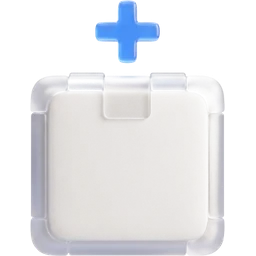
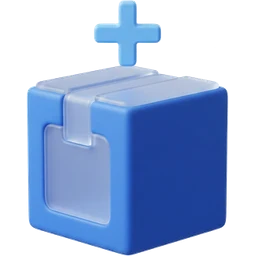
Painéis com vida: ações rápidas completas com ícones 3D (novo produto em azul, sacolinha no novo pedido) (D329)
Claude-Session: https://claude.ai/code/session_01Lks3ZRu8b1B5aF8Dj5vDVJ

diff --git a/src/components/commerce/commerce-home.tsx b/src/components/commerce/commerce-home.tsx
@@ -64,8 +64,8 @@ export function CommerceHome({ firstName, greeting, store, o, readiness, attenti
   const noPrev = o.salesDelta === undefined && o.countDelta === undefined;
   // Ícones 3D do dono (D329) nas ações rápidas; sem imagem, fica o ícone de traço.
   const QUICK: { href: string; label: string; icon: LucideIcon; img?: string }[] = [
-    { href: "/merchant/catalogo/new", label: "Novo produto", icon: Package },
-    { href: "/merchant/orders/new", label: "Novo pedido", icon: Plus, img: "/paineis/v1/pv-icone-novo-pedido.webp" },
+    { href: "/merchant/catalogo/new", label: "Novo produto", icon: Package, img: "/paineis/v1/pv-icone-novo-produto.webp" },
+    { href: "/merchant/orders/new", label: "Novo pedido", icon: Plus, img: "/paineis/v1/pv-icone-novo-pedido-sacola.webp" },
     { href: "/theme-editor", label: "Editar aparência", icon: Palette, img: "/paineis/v1/pv-icone-aparencia.webp" },
     { href: "/merchant/finance", label: "Financeiro", icon: Wallet, img: "/paineis/v1/pv-icone-financeiro.webp" },
   ];

diff --git a/public/paineis/v1/MANIFESTO.md b/public/paineis/v1/MANIFESTO.md
@@ -23,5 +23,4 @@ Prompt de origem: `docs/prompts/imagens-paineis-com-vida-gpt.md` (D328). Geradas
 |---|---|---|
 | pv-icone-dinheiro, -pedidos, -clientes, -visitas, -crescimento | Cartões de número (`NumeroVivo`), pela família de cor | **No painel** (256 px, fundo recortado) |
 | pv-icone-festa | Família festa (conquistas, Black) | Guardada |
-| pv-icone-novo-pedido, -aparencia, -financeiro | Ações rápidas do lojista | **No painel** |
-| pv-icone-novo-produto | Ações rápidas | **Refazer** com a caixa em azul (a branca some sobre o cartão branco) |
+| pv-icone-novo-produto, -novo-pedido-sacola, -aparencia, -financeiro | Ações rápidas do lojista | **No painel** |
